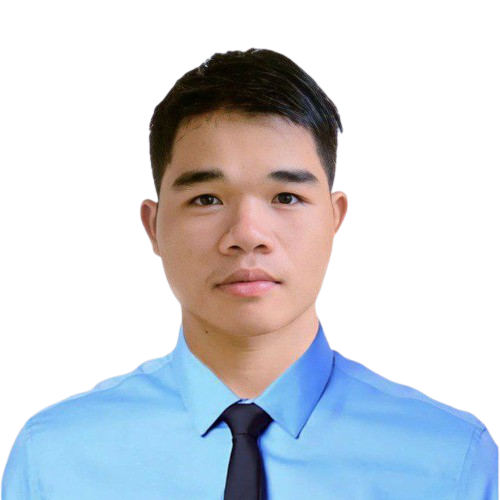
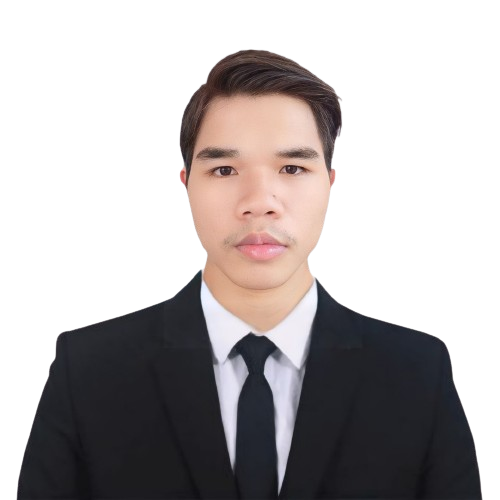
change the profile and add jquery card

diff --git a/index.html b/index.html
@@ -112,6 +112,11 @@
             </div>
 
             <div class="card-container">
+              <img src="images/programming-icon/jQuery-icon.png" alt="" class="programming-icon jQuery">
+              <h6 class="title-card">jQuery</h6>
+            </div>
+
+            <div class="card-container">
               <img src="images/programming-icon/bootstrap-icon.png" alt="" class="programming-icon bootstrap">
               <h6 class="title-card">Bootstrap</h6>
             </div>
@@ -222,7 +227,7 @@
   <!-- Experiences Section -->
   <section id="experiences" class="py-5 ">
     <div class="container ">
-      <h2 class="text-center mb-4">Experiences</h2>
+      <h2 class="text-center mb-4">Projects</h2>
       <div class="experience-container row " data-aos="fade-up">
 
         <div class="card-experience bg-white text-dark ">

diff --git a/css/styles.css b/css/styles.css
@@ -307,6 +307,7 @@ width: 80px;
     width: 50px;
   }
 
+
 }
 
 @media (max-width: 360px) {
@@ -314,6 +315,21 @@ width: 80px;
     padding: 20px;
     width: 150px;
     height: 110px;
+  }
+  .css{
+    width: 55px;
+  }
+  .sass{
+    width: 65px;
+  }
+  .tailwind{
+    width: 80px;
+  }
+  .node{
+    width: 80px;
+  }
+  .typescript{
+    width: 62px;
   }
 }
 
